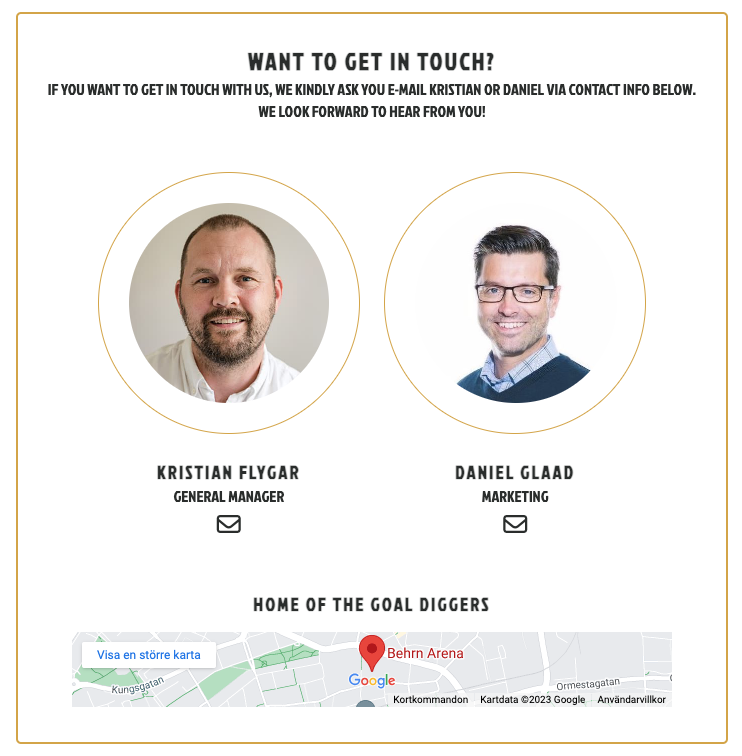
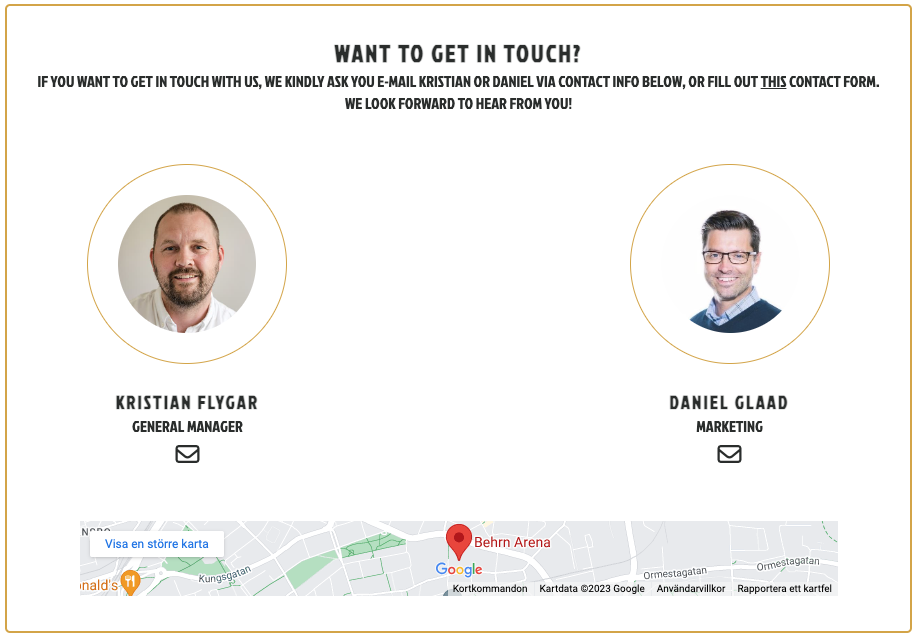
Add h2 to a h1 element that cuased an error in validator

diff --git a/contact.html b/contact.html
@@ -46,7 +46,7 @@
             <!-- Div that holds image and contact info about Kristian -->
             <div class="contact-info1">
                 <div class="circle">
-                    <img src="assets/images/kristian_flygar.jpg" alt="Picture of Goal Diggers GM Kristian Flygar"
+                    <img src="assets/images/kristian_flygar.jpg" alt="General Manager Kristian Flygar"
                         id="contact-img1">
                 </div>
                 <div>
@@ -61,12 +61,12 @@
             <!-- Div that hold image and contact info about Daniel -->
             <div class="contact-info2">
                 <div class="circle">
-                    <img src="assets/images/daniel_glaad7.jpg" alt="Picture of Goal Diggers Marketing Daniel Glaad"
+                    <img src="assets/images/daniel_glaad7.jpg" alt="Marketing Director Daniel Glaad"
                         id="contact-img2">
                 </div>
                 <div>
                     <h3>Daniel Glaad</h3>
-                    <p>Marketing
+                    <p>Marketing Director
                         <br>
                         <a href="mailto:daniel.glaad@fiskarhedenvillan.se?" class="mail-link"><i
                                 class="fa-regular fa-envelope"></i></a>

diff --git a/404.html b/404.html
@@ -36,7 +36,7 @@
     <!-- Creates section with error message -->
     <main class="error">
         <div class="error-h1">
-            <h1>Page not found!</h1>
+            <h2>Page not found!</h2>
         </div>
         <div class="error-message">
             <p> We are so sorry! The page you are looking for might have been removed, had it's name changed or is

diff --git a/assets/css/style.css b/assets/css/style.css
@@ -359,7 +359,7 @@ footer p {
     margin-top: 50px;
 }
 
-.error-h1 {
+.error-h2 {
     font-size: 200%;
 }
 

diff --git a/README.md b/README.md
@@ -46,18 +46,35 @@ Below this section we have a gallery of logotypes of the teams current sponsors,
 
 ### **Contact page**
 
-On the contact page the user gets familiar on who they can contact if they e.g wants to invite the team to a tournament or have any other questions they want to ask.
+On the contact page the user gets familiar on who they can contact if they e.g wants to invite the team to a tournament or have any other questions they want to ask. Via a link in the main text the user can also choose to leave their contact info by filling out a form.
 
-I've added som styling to the images and a link to an e-mail within the envelope icon, which is turning in to the golden color when hovered.
+I've added som styling to the images and a link to an e-mail within the envelope icon, which is turning in to the golden color when hovered. The link to contact form is also turning gold whn hovered.
 
 I also added a map for the user to see where the team play their games so it's easy for the user to navigate if they want to come see the team.
 
 ![Screenshot of contact page](/docs/gd_contact-page.png)
 
+### **Contact form**
+
+On the contact page the user can click on a link to fill in their contact info, so that the team can contact the user.
+The user is required to fill out their email address and phone number, and hit "SEND". 
+The page is styled as the rest of the website with the gold and white colors and black(ish) font. The "SEND" button is styled with a hovering effect that turns the button from black to gold.
+
+Note: The form is a mock up.
+
+![Screenshot of contact-form](/docs/gd_contact-form.png)
+
+### **Response message**
+
+When the user hit the "SEND" button they get a response message thanking them for reaching out and informing that the team will get back to them as soon as possible. 
+The user can head back to the original page via links in the menu or clicking on the text which says "HOME PAGE". The "HOME PAGE" is a link and turns gold when hovered.
+
+![Screenshot of response message](/docs/gd_response-massage.png)
+
 ### **404 Error page**
 
 Sometimes things go wrong, so to make it easy to the user to navigate back to the main page I a
-created a 404 error page which informs the user that something is wrong and how to turn around and head the right direction again. In the error message I have a link to the home page and they can also use the navbar to head back to the page they where looking for.
+created a 404 error page which informs the user that something is wrong and how to turn around and head the right direction again. In the error message I have a link to the home page and they can also use the navbar to head back to the page they where looking for. The link in the text turns gold when hovered.
 
 ![Screenshot of 404 error page](/docs/gd_error-page.png)
 
@@ -68,7 +85,8 @@ created a 404 error page which informs the user that something is wrong and how 
 Here are some of the features that will be added in the future:
 
 - Player videos/highlights will be added when content is available. Because of the teams short time of life such content is not available at this time.
-- Updated sponsors page with new logotypes (if necessary)
+- Turn the mock up contact form in to a real one.
+- Updated sponsors page with new/more logotypes (when the team gets more sponsors).
 - Webshop page with Goal Diggers merchandise.
 - Tournaments page (when the team has participated in more than one) with statistics.
 - Roster page with information and statistcs of the players.
@@ -103,7 +121,7 @@ Since I've learned a lot more about using flex since this code was written I wou
 
 #### HTML
 
-The **HTML** code is tested in W3 Validator and passed with only one warning:
+The **Home page** code is tested in W3 Validator and passed with only one warning:
 
 - The **404 Error** page is warning for the H1 on line 20, which is a bit wierd because it doesen't give me the same warning on the other html pages, which uses the same code.
 
